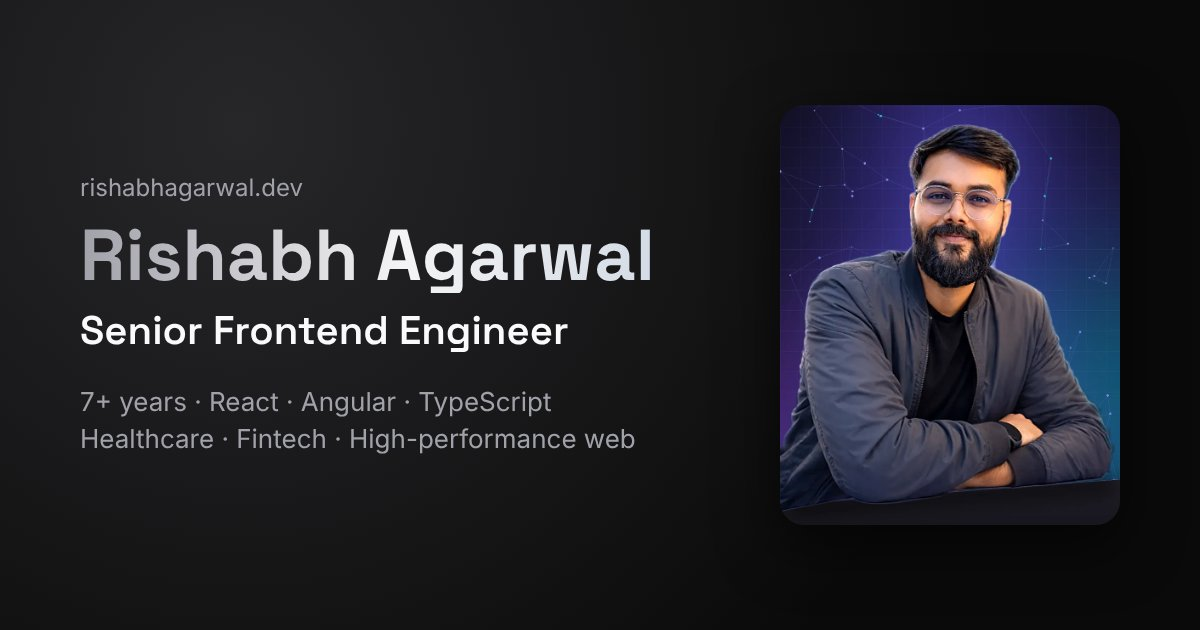
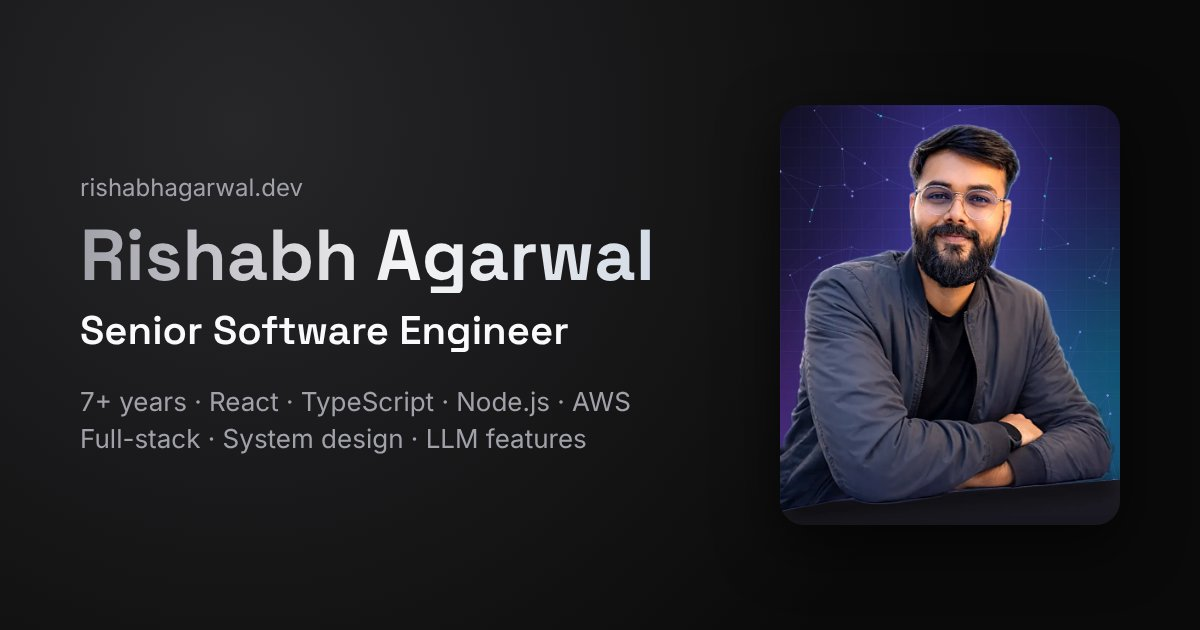
Position the site as Senior Software Engineer (full-stack)
Matches the resume: hero headline, rotating "I build" line, intro, open-to-work
badge, page title, meta/OG/JSON-LD, OG image, contact and experience copy;
new "AI & LLMs" skill group and backend system design.

Claude-Session: https://claude.ai/code/session_012ipjrg5hndmspzufutvoju

Changed region(s): [[0.0617, 0.6032, 0.5242, 0.7238], [0.1542, 0.4825, 0.4625, 0.573]]

diff --git a/src/components/Hero.tsx b/src/components/Hero.tsx
@@ -22,7 +22,7 @@ const fadeUp = (delay: number) => ({
 });
 
 const stats = [
-    { value: profile.yearsOfExperience, label: 'Years building production web apps' },
+    { value: profile.yearsOfExperience, label: 'Years shipping production software' },
     { value: String(experience.length), label: 'Companies, incl. Deloitte & Capgemini' },
     { value: '1', label: 'Full-stack SaaS built & launched solo' },
 ];
@@ -33,7 +33,7 @@ const socials = [
     { href: `mailto:${profile.email}`, label: 'Email', icon: Mail },
 ];
 
-const BUILDS = ['high-performance UIs', 'design systems', 'enterprise React apps', 'full-stack SaaS', 'secure healthcare portals'];
+const BUILDS = ['full-stack SaaS', 'high-performance UIs', 'scalable APIs', 'LLM-powered features', 'enterprise React apps', 'secure healthcare portals'];
 
 /** Defer the WebGL scene until the browser is idle after first paint. */
 function useIdleMount() {
@@ -77,7 +77,7 @@ const Hero = () => {
                                     <span className="absolute inline-flex h-full w-full rounded-full bg-emerald-400 opacity-75 motion-safe:animate-ping" />
                                     <span className="relative inline-flex h-2 w-2 rounded-full bg-emerald-400" />
                                 </span>
-                                Open to Senior / Staff Frontend roles
+                                Open to Senior / Staff engineering roles
                             </motion.p>
                         )}
 
@@ -86,7 +86,7 @@ const Hero = () => {
                                 Hi, I'm {profile.name}
                             </motion.span>
                             <span className="block text-5xl sm:text-6xl md:text-7xl">
-                                <SplitReveal text="Senior Frontend" delay={0.15} className="text-zinc-100" />
+                                <SplitReveal text="Senior Software" delay={0.15} className="text-zinc-100" />
                             </span>
                             <span className="block text-5xl sm:text-6xl md:text-7xl">
                                 <SplitReveal
@@ -107,9 +107,9 @@ const Hero = () => {
 
                         <motion.p className="text-lg text-muted-foreground leading-relaxed max-w-xl" {...fadeUp(0.65)}>
                             {profile.yearsOfExperience} years shipping{' '}
-                            <span className="text-foreground font-medium">enterprise-scale applications</span> with React,
-                            Angular and TypeScript across{' '}
-                            <span className="text-foreground font-medium">healthcare, fintech and SaaS</span>.
+                            <span className="text-foreground font-medium">production web products</span> across healthcare,
+                            banking and SaaS — frontend depth in React, Angular and TypeScript,{' '}
+                            <span className="text-foreground font-medium">full-stack</span> across Node.js, PostgreSQL and AWS.
                         </motion.p>
 
                         <motion.div className="flex flex-col sm:flex-row gap-3" {...fadeUp(0.75)}>
@@ -211,7 +211,7 @@ const Hero = () => {
                             I've spent the last{' '}
                             <span className="font-semibold text-foreground">{profile.yearsOfExperience} years</span>{' '}
                             building scalable, high-performance web applications for enterprise clients in{' '}
-                            <span className="font-semibold text-foreground">healthcare, fintech, and SaaS</span>.
+                            <span className="font-semibold text-foreground">healthcare, banking and SaaS</span>.
                         </p>
                         <p>
                             I specialize in architecting complex{' '}

diff --git a/index.html b/index.html
@@ -4,9 +4,9 @@
 <head>
   <meta charset="UTF-8" />
   <meta name="viewport" content="width=device-width, initial-scale=1.0" />
-  <title>Rishabh Agarwal — Senior Frontend Engineer</title>
+  <title>Rishabh Agarwal — Senior Software Engineer</title>
   <meta name="description"
-    content="Rishabh Agarwal — Senior Frontend Engineer with 7+ years building scalable, high-performance React, Angular and TypeScript applications for healthcare, fintech and SaaS." />
+    content="Rishabh Agarwal — Senior Software Engineer with 7+ years shipping production web products — frontend depth in React, Angular and TypeScript, full-stack across Node.js, PostgreSQL and AWS, plus LLM-powered features." />
   <meta name="author" content="Rishabh Agarwal" />
   <meta name="theme-color" content="#0a0a0a" />
   <meta name="color-scheme" content="dark" />
@@ -20,17 +20,17 @@
   <!-- Open Graph / Social -->
   <meta property="og:type" content="website" />
   <meta property="og:site_name" content="Rishabh Agarwal" />
-  <meta property="og:title" content="Rishabh Agarwal — Senior Frontend Engineer" />
+  <meta property="og:title" content="Rishabh Agarwal — Senior Software Engineer" />
   <meta property="og:description"
-    content="7+ years building scalable, high-performance web apps with React, Angular and TypeScript. Featured project NamasteScale, case studies and experience." />
+    content="7+ years shipping production web products: React and TypeScript frontends, Node.js/PostgreSQL backends on AWS, and LLM features. Featured project: NamasteScale." />
   <meta property="og:url" content="https://rishabhagarwal.dev/" />
   <meta property="og:image" content="https://rishabhagarwal.dev/og-image.jpg" />
   <meta property="og:image:width" content="1200" />
   <meta property="og:image:height" content="630" />
   <meta name="twitter:card" content="summary_large_image" />
-  <meta name="twitter:title" content="Rishabh Agarwal — Senior Frontend Engineer" />
+  <meta name="twitter:title" content="Rishabh Agarwal — Senior Software Engineer" />
   <meta name="twitter:description"
-    content="7+ years building scalable, high-performance web apps with React, Angular and TypeScript." />
+    content="7+ years shipping full-stack web products with React, Node.js, PostgreSQL and AWS." />
   <meta name="twitter:image" content="https://rishabhagarwal.dev/og-image.jpg" />
 
   <!-- Structured data -->
@@ -39,13 +39,13 @@
       "@context": "https://schema.org",
       "@type": "Person",
       "name": "Rishabh Agarwal",
-      "jobTitle": "Senior Frontend Engineer",
+      "jobTitle": "Senior Software Engineer",
       "url": "https://rishabhagarwal.dev/",
       "sameAs": [
         "https://www.linkedin.com/in/rishi8a69127",
         "https://github.com/rishabh-agarwal-business"
       ],
-      "knowsAbout": ["React", "TypeScript", "Angular", "Frontend Architecture", "Web Performance"]
+      "knowsAbout": ["React", "TypeScript", "Angular", "Node.js", "NestJS", "PostgreSQL", "AWS", "System Design", "LLM Integration", "Web Performance"]
     }
   </script>
 </head>
@@ -53,7 +53,7 @@
 <body>
   <noscript>
     <p style="padding:2rem;font-family:sans-serif;color:#fff;background:#0a0a0a">
-      Rishabh Agarwal — Senior Frontend Engineer. Please enable JavaScript to view this portfolio, or
+      Rishabh Agarwal — Senior Software Engineer. Please enable JavaScript to view this portfolio, or
       <a href="/Rishabh_Agarwal.pdf" style="color:#93c5fd">download the resume</a>.
     </p>
   </noscript>

diff --git a/src/data/data.ts b/src/data/data.ts
@@ -1,7 +1,7 @@
 /** Single source of truth for personal details used across the site */
 export const profile = {
     name: 'Rishabh Agarwal',
-    title: 'Senior Frontend Engineer',
+    title: 'Senior Software Engineer',
     yearsOfExperience: '7+',
     location: 'Rudrapur, Uttarakhand, India',
     email: 'rishabh.developer1509@gmail.com',
@@ -208,8 +208,9 @@ export const skills: Record<string, string[]> = {
     'Languages': ['JavaScript (ES6+)', 'TypeScript', 'HTML5', 'CSS3', 'SQL'],
     'Frameworks & Libraries': ['React 19', 'Next.js', 'Angular', 'Redux Toolkit', 'RTK Query', 'TanStack Query', 'Zustand', 'RxJS', 'React Flow', 'three.js'],
     'UI & Design Systems': ['Tailwind CSS', 'Material UI', 'Bootstrap', 'Responsive Design', 'Accessibility (a11y)'],
-    'Architecture & Patterns': ['Frontend System Design (RADIO)', 'Modular Architecture', 'SOLID / Dependency Inversion', 'Component-Driven Development', 'State Management Patterns', 'REST API Design', 'Schema-shared Contracts (Zod)'],
+    'Architecture & Patterns': ['Frontend System Design (RADIO)', 'Backend System Design', 'Modular Architecture', 'SOLID / Dependency Inversion', 'Component-Driven Development', 'State Management Patterns', 'REST API Design', 'Schema-shared Contracts (Zod)'],
     'Security & Quality': ['RBAC', 'OAuth / OIDC', 'Session Auth + CSRF', 'TOTP 2FA', 'Jest', 'Vitest', 'React Testing Library', 'Performance Optimization'],
+    'AI & LLMs': ['Claude API (Anthropic, AWS Bedrock)', 'Prompt Design', 'Structured Outputs (Zod)', 'LLM Evaluation Rubrics', 'Cost & Rate-limit Controls', 'Graceful AI Fallbacks'],
     'Backend & Data': ['Node.js / Express', 'NestJS + Fastify', 'PostgreSQL', 'Drizzle ORM', 'Redis', 'BullMQ', 'MongoDB', 'Razorpay', 'LLM integration (Claude)'],
     'Tools & Infrastructure': ['Git', 'Vite', 'Webpack', 'Docker', 'Caddy', 'AWS (EC2, RDS, S3, SES, CloudFront, CDK)', 'Cloudflare', 'GitHub Actions CI/CD']
 };

diff --git a/src/components/Skills.tsx b/src/components/Skills.tsx
@@ -1,5 +1,5 @@
 import { skills } from "@/data/data";
-import { Blocks, Code2, Palette, Server, Shield, Sparkles, Wrench, Zap, type LucideIcon } from "lucide-react"
+import { Blocks, Bot, Code2, Palette, Server, Shield, Sparkles, Wrench, Zap, type LucideIcon } from "lucide-react"
 import { memo, useMemo, useState } from "react"
 import { SectionHeader } from "./ui/SectionHeader";
 import { AnimatePresence, motion } from "motion/react";
@@ -13,6 +13,7 @@ const categoryIcons: Record<string, LucideIcon> = {
     'Architecture & Patterns': Wrench,
     'Security & Quality': Shield,
     'Backend & Data': Server,
+    'AI & LLMs': Bot,
     'Tools & Infrastructure': Zap
 }
 

diff --git a/src/components/Contact.tsx b/src/components/Contact.tsx
@@ -30,7 +30,7 @@ export default function Contact() {
                     <SectionHeader
                         id="contact-title"
                         title="Get In Touch"
-                        subtitle="Open to discussing senior frontend roles, interesting problems, and open-source collaboration."
+                        subtitle="Open to senior and staff engineering roles, interesting problems and product collaborations."
                         titleClassName="text-3xl md:text-4xl text-center"
                         subtitleClassName="text-lg text-center"
                         centered

diff --git a/src/components/Experience.tsx b/src/components/Experience.tsx
@@ -13,7 +13,7 @@ export default function Experience() {
                 <SectionHeader
                     id="experience-title"
                     title="Work Experience"
-                    subtitle="Healthcare, consulting, data and banking — shipping production frontends across four organizations."
+                    subtitle="Healthcare, consulting, data and banking — shipping production software across four organizations."
                 />
 
                 {/* Desktop Layout: Sidebar + Content */}

diff --git a/src/App.tsx b/src/App.tsx
@@ -30,7 +30,7 @@ const MARQUEE = ['React 19', 'TypeScript', 'Angular', 'Next.js', 'TanStack Query
 function HomePage() {
   return (
     <>
-      <title>Rishabh Agarwal — Senior Frontend Engineer</title>
+      <title>Rishabh Agarwal — Senior Software Engineer</title>
       <Hero />
       <Marquee items={MARQUEE} />
       <Skills />

diff --git a/README.md b/README.md
@@ -1,6 +1,6 @@
 # Rishabh Agarwal — Portfolio
 
-Personal portfolio of **Rishabh Agarwal**, Senior Frontend Engineer.
+Personal portfolio of **Rishabh Agarwal**, Senior Software Engineer.
 Live: **https://rishabhagarwal.dev**
 
 ![Hero](screenshots/hero.jpg)
